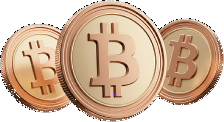
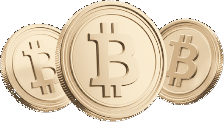
Единый оттенок арта + блик по гербу на прелоадере
- tools/png-key.js: режим grade — градационная рампа бронзы
  (тень #4A3A28 → #C9A87E → блик #FAECD0) по яркости пикселя с контрастной
  S-кривой; весь арт (герб, таб-бар, щит, монеты) сведён к одному оттенку,
  объём и блики сохранены. Тест держит разброс среднего hue набора < 6°.
- public/img/tab-profile.png перегенерирован без постамента-артефакта.
- Прелоадер: .preloader-logo-wrap::after — проскользающий блик по силуэту
  герба (маска по альфе logo-mark.png, mix-blend-mode: screen,
  @keyframes preloader-shine 2.8s с паузой; reduced-motion выключает).
- Логотип прелоадера больше не тянется в квадрат: height auto в style/ios.

100/100 тестов.

diff --git a/tools/png-key.js b/tools/png-key.js
@@ -227,6 +227,52 @@ function resize(img, size) {
   return { width: tw, height: th, px: out };
 }
 
+/* ---------- унификация оттенка: градационная карта бронзы ---------- */
+// Генерация даёт каждый объект со своим нюансом металла (розовее, меднее,
+// зеленоватее). Чтобы набор не различался по оттенкам, цвет каждого
+// непрозрачного пикселя заменяется точкой единой шампанской рампы
+// тень → бронза → блик по его яркости: объём и блики сохраняются,
+// оттенок становится общим у всех иконок и логотипа.
+const RAMP = [
+  [0.0, [0x4a, 0x3a, 0x28]],
+  [0.5, [0xc9, 0xa8, 0x7e]],
+  [1.0, [0xfa, 0xec, 0xd0]],
+];
+function rampColor(t) {
+  const x = Math.min(1, Math.max(0, t));
+  for (let i = 1; i < RAMP.length; i += 1) {
+    if (x <= RAMP[i][0]) {
+      const [t0, c0] = RAMP[i - 1];
+      const [t1, c1] = RAMP[i];
+      const k = (x - t0) / (t1 - t0 || 1);
+      return [
+        Math.round(c0[0] + (c1[0] - c0[0]) * k),
+        Math.round(c0[1] + (c1[1] - c0[1]) * k),
+        Math.round(c0[2] + (c1[2] - c0[2]) * k),
+      ];
+    }
+  }
+  return RAMP[RAMP.length - 1][1];
+}
+function gradeBronze(img) {
+  const { width, height, px } = img;
+  for (let i = 0; i < width * height; i += 1) {
+    const o = i * 4;
+    if (px[o + 3] === 0) continue;
+    const r = px[o] / 255;
+    const g = px[o + 1] / 255;
+    const b = px[o + 2] / 255;
+    // perceptual luminance + контрастная S-кривая, чтобы металл держал объём
+    const lum = 0.2126 * r + 0.7152 * g + 0.0722 * b;
+    let t = Math.pow(lum, 0.92);
+    t = Math.min(1, Math.max(0, (t - 0.06) / 0.88));
+    t = t * t * (3 - 2 * t);
+    const [nr, ng, nb] = rampColor(t);
+    px[o] = nr; px[o + 1] = ng; px[o + 2] = nb;
+  }
+  return img;
+}
+
 /* ---------- кодировщик PNG (RGBA, filter 0) ---------- */
 function encodePng(img, file) {
   const { width, height, px } = img;
@@ -268,8 +314,18 @@ function convert(src, dst, size) {
 }
 
 if (require.main === module) {
-  const [src, dst, size] = process.argv.slice(2);
-  convert(src, dst, Number(size) || 96);
+  const argv = process.argv.slice(2);
+  if (argv[0] === 'grade') {
+    // унификация оттенка готовых ассетов: node tools/png-key.js grade a.png b.png …
+    for (const file of argv.slice(1)) {
+      const img = gradeBronze(decodePng(file));
+      const bytes = encodePng(img, file);
+      console.log(`grade ${file} ${img.width}×${img.height} ${(bytes / 1024).toFixed(0)} KB`);
+    }
+  } else {
+    const [src, dst, size] = argv;
+    convert(src, dst, Number(size) || 96);
+  }
 }
 
-module.exports = { decodePng, encodePng, keyBlack, cropAlpha, resize, convert };
+module.exports = { decodePng, encodePng, keyBlack, cropAlpha, resize, convert, gradeBronze, rampColor };

diff --git a/test/art.test.js b/test/art.test.js
@@ -37,6 +37,52 @@ test('3D-арт: PNG с прозрачным фоном, плотным силу
   }
 });
 
+function meanHue(file) {
+  const img = decodePng(file);
+  let sx = 0;
+  let sy = 0;
+  let n = 0;
+  for (let i = 0; i < img.width * img.height; i += 1) {
+    const o = i * 4;
+    if (img.px[o + 3] < 200) continue;
+    const r = img.px[o] / 255;
+    const g = img.px[o + 1] / 255;
+    const b = img.px[o + 2] / 255;
+    const max = Math.max(r, g, b);
+    const min = Math.min(r, g, b);
+    const d = max - min;
+    if (d < 0.02) continue; // почти ахроматические пиксели тон не несут
+    let h;
+    if (max === r) h = ((g - b) / d) % 6;
+    else if (max === g) h = (b - r) / d + 2;
+    else h = (r - g) / d + 4;
+    h *= 60;
+    if (h < 0) h += 360;
+    sx += Math.cos((h * Math.PI) / 180);
+    sy += Math.sin((h * Math.PI) / 180);
+    n += 1;
+  }
+  assert.ok(n > 100, 'достаточно цветных пикселей для замера');
+  let mean = (Math.atan2(sy, sx) * 180) / Math.PI;
+  if (mean < 0) mean += 360;
+  return mean;
+}
+
+test('весь арт сведён к одному оттенку бронзы: разброс набора минимален', () => {
+  const hues = ART.map((f) => meanHue(path.join(__dirname, '../public/img', f)));
+  for (const h of hues) assert.ok(h > 25 && h < 45, `оттенк в шампанской полосе: ${h.toFixed(1)}°`);
+  const spread = Math.max(...hues) - Math.min(...hues);
+  assert.ok(spread < 6, `набор не различается по оттенкам: разброс ${spread.toFixed(2)}°`);
+});
+
+test('прелоадер: блик скользит по силуэту герба через альфа-маску логотипа', () => {
+  assert.match(html, /<div class="preloader-logo-wrap">/, 'логотип обёрнут для блика');
+  assert.match(iosCss, /\.preloader-logo-wrap::after \{/, 'блик — слой над логотипом');
+  assert.match(iosCss, /mask: url\('\/img\/logo-mark\.png'\) center \/ contain no-repeat;/, 'маска — альфа самого герба');
+  assert.match(iosCss, /mix-blend-mode: screen;/, 'свет прибавляется к металлу');
+  assert.match(iosCss, /@keyframes preloader-shine \{/, 'анимация проскальзывания');
+});
+
 test('кнопки и сегменты — шампанские пилюли по референсу IMG_1230', () => {
   assert.match(iosCss, /\.btn \{ min-height: 50px; border-radius: 999px;/, 'кнопки-пилюли');
   assert.match(iosCss, /\.btn-primary \{\n\s*color: var\(--tint-fill-ink\);\n\s*background: linear-gradient\(135deg, var\(--sand-1\) 0%, var\(--tint-fill\) 55%, var\(--sand-2\) 100%\);/, 'главная кнопка — шампанский градиент');

diff --git a/public/ios.css b/public/ios.css
@@ -39,7 +39,24 @@ body { font-family: var(--font-sans); letter-spacing: -0.01em; -webkit-font-smoo
 
 /* ---------- Прелоадер ---------- */
 .preloader { background: var(--bg-1); }
-.preloader-logo { width: 120px; height: 120px; margin-bottom: 18px; filter: none; }
+.preloader-logo-wrap { position: relative; display: inline-block; }
+/* Проскользающий блик по силуэту герба: маска — альфа самого логотипа,
+   световая полоса едет background-position'ом поверх металла (screen). */
+.preloader-logo-wrap::after {
+  content: ''; position: absolute; inset: 0; pointer-events: none;
+  background: linear-gradient(115deg, transparent 40%, rgba(255, 246, 232, .5) 46%, rgba(255, 255, 255, .9) 50%, rgba(255, 246, 232, .5) 54%, transparent 60%) no-repeat;
+  background-size: 260% 100%;
+  background-position: 0% 0;
+  -webkit-mask: url('/img/logo-mark.png') center / contain no-repeat;
+  mask: url('/img/logo-mark.png') center / contain no-repeat;
+  mix-blend-mode: screen;
+  animation: preloader-shine 2.8s cubic-bezier(.45, 0, .25, 1) infinite;
+}
+@keyframes preloader-shine {
+  0% { background-position: 0% 0; }
+  55%, 100% { background-position: 100% 0; }
+}
+.preloader-logo { display: block; width: 120px; height: auto; margin-bottom: 18px; filter: none; }
 .preloader-brand { font-size: 17px; font-weight: 600; letter-spacing: .3em; color: var(--ink); }
 .preloader-tag { color: var(--mut); font-family: var(--font-sans); font-size: 11px; letter-spacing: .12em; }
 .preloader-est { display: none; }

diff --git a/public/index.html b/public/index.html
@@ -28,7 +28,9 @@
 
   <div id="preloader" class="preloader" role="status" aria-live="polite" aria-label="PRICELEX">
     <div class="preloader-inner">
-      <img class="preloader-logo" src="/img/logo-mark.png" alt="" width="180" height="180" />
+      <div class="preloader-logo-wrap">
+        <img class="preloader-logo" src="/img/logo-mark.png" alt="" width="180" height="180" />
+      </div>
       <div class="preloader-brand">PRICELEX</div>
       <div class="preloader-tag">Private Crypto Brokerage</div>
       <div class="preloader-est">est. 2024</div>

diff --git a/public/style.css b/public/style.css
@@ -99,7 +99,7 @@ html, body { height: 100%; }
   to { opacity: 1; transform: none; }
 }
 .preloader-logo {
-  width: 168px; height: 168px; object-fit: contain;
+  width: 168px; height: auto; object-fit: contain;
   display: block; margin: 0 auto 6px;
   filter: none;
 }

diff --git a/DESIGN.md b/DESIGN.md
@@ -90,6 +90,18 @@ tab bar. Палитра и компоненты не трогаются.
 Неактивные пункты таб-бара приглушены (`opacity .55` + десатурация), активный —
 полноцветный; размер следует шкале устройства через `--ui-nav-ic`.
 
+Чтобы набор не различался по оттенкам (генерация даёт каждый объект со своим
+нюансом металла), `tools/png-key.js grade` пропускает непрозрачные пиксели
+через единую градационную рампу бронзы — тень `#4A3A28` → бронза `#C9A87E` →
+блик `#FAECD0` — по яркости пикселя с контрастной S-кривой: объём и блики
+сохраняются, оттенок становится общим у всех иконок, щита, монет и герба
+(тесты держат разброс среднего hue набора меньше 6°).
+
+На прелоадере по силуэту герба проскальзывает блик: `.preloader-logo-wrap::after`
+с маской по альфе самого `logo-mark.png` и световой полосой, едущей
+`background-position` (mix-blend-mode: screen, `@keyframes preloader-shine`,
+2.8 s с паузой; `prefers-reduced-motion` анимацию выключает).
+
 Кнопки и текст — по референсу IMG_1230: кнопки-пилюли (радиус 999 px),
 главная — шампанский градиент `--sand-1 → --tint-fill → --sand-2` с тёмным
 текстом и тёплым свечением; трек сегментов — полупрозрачная пилюля, активный
